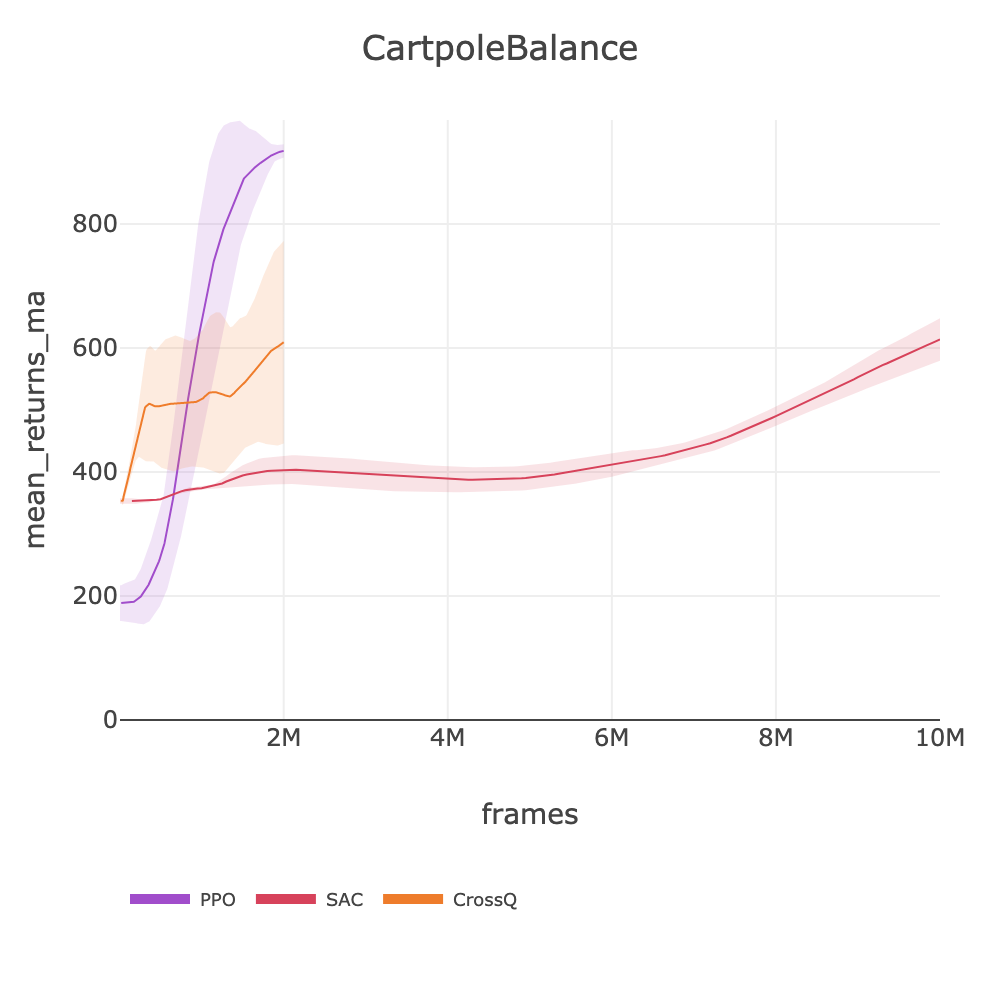
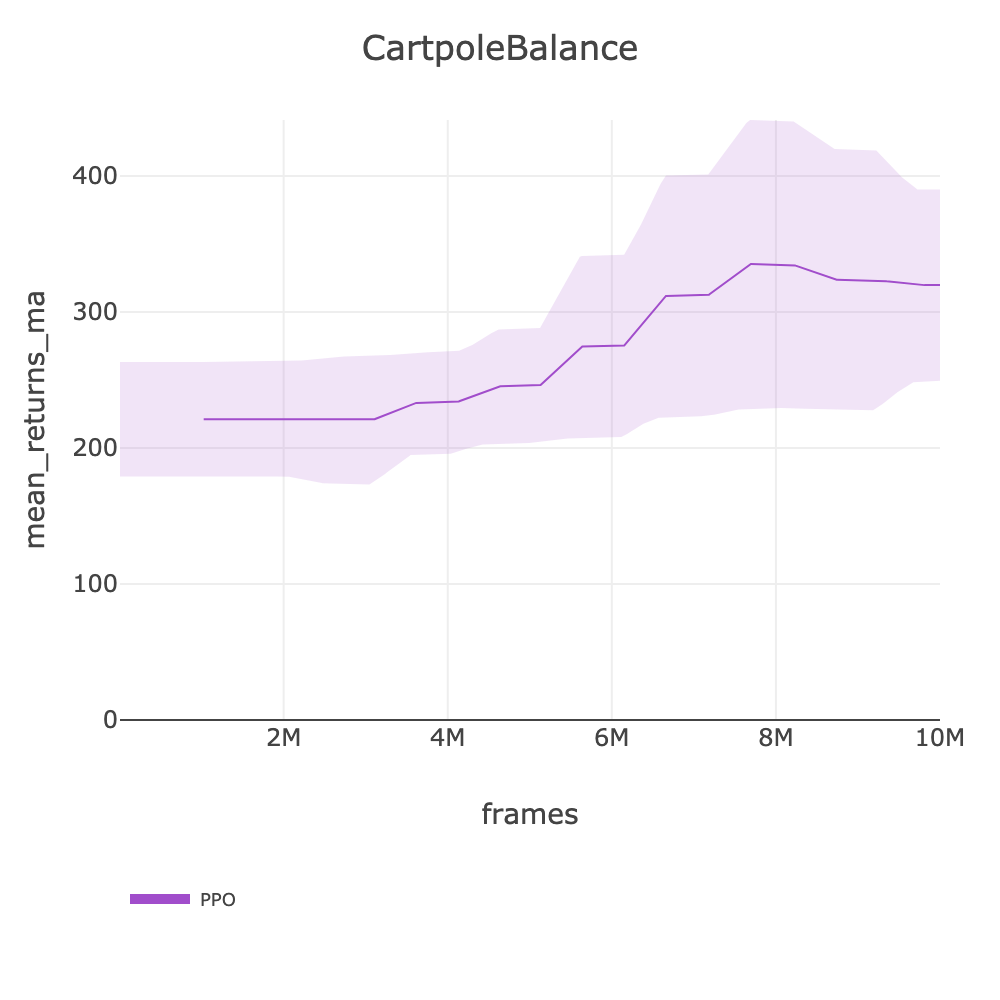
feat: intake PPO pilot runs — CartpoleBalance 319.77, CheetahRun 51.21 (10M frames baseline)

diff --git a/docs/BENCHMARKS.md b/docs/BENCHMARKS.md
@@ -900,7 +900,7 @@ source .env && uv run slm-lab run-remote --gpu \
 | playground/BallInCup | PPO | 🔄 | - | ppo_playground | - | 950 | - | - | - |
 | | CrossQ | 🔄 | - | crossq_playground | - | | - | - | - |
 | | SAC | 🔄 | - | sac_playground | - | | - | - | - |
-| playground/CartpoleBalance | PPO | 🔄 | - | ppo_playground | - | 1000 | - | - | - |
+| playground/CartpoleBalance | PPO | ✅ | 319.77 | ppo_playground | [ppo_playground_cartpolebalance_2026_03_11_084925](https://huggingface.co/datasets/SLM-Lab/benchmark-dev/tree/main/data/ppo_playground_cartpolebalance_2026_03_11_084925) | 1000 | - | - | - |
 | | SAC | 🔄 | - | sac_playground | - | | - | - | - |
 | | CrossQ | 🔄 | - | crossq_playground | - | | - | - | - |
 | playground/CartpoleBalanceSparse | PPO | 🔄 | - | ppo_playground | - | 1000 | - | - | - |
@@ -912,7 +912,7 @@ source .env && uv run slm-lab run-remote --gpu \
 | playground/CartpoleSwingupSparse | PPO | 🔄 | - | ppo_playground | - | 650 | - | - | - |
 | | CrossQ | 🔄 | - | crossq_playground | - | | - | - | - |
 | | SAC | 🔄 | - | sac_playground_hard | - | | - | - | - |
-| playground/CheetahRun | PPO | 🔄 | - | ppo_playground | - | 850 | - | - | - |
+| playground/CheetahRun | PPO | ✅ | 51.21 | ppo_playground | [ppo_playground_cheetahrun_2026_03_11_084951](https://huggingface.co/datasets/SLM-Lab/benchmark-dev/tree/main/data/ppo_playground_cheetahrun_2026_03_11_084951) | 850 | - | - | - |
 | | CrossQ | 🔄 | - | crossq_playground | - | | - | - | - |
 | | SAC | 🔄 | - | sac_playground | - | | - | - | - |
 | playground/FingerSpin | PPO | 🔄 | - | ppo_playground | - | 750 | - | - | - |
